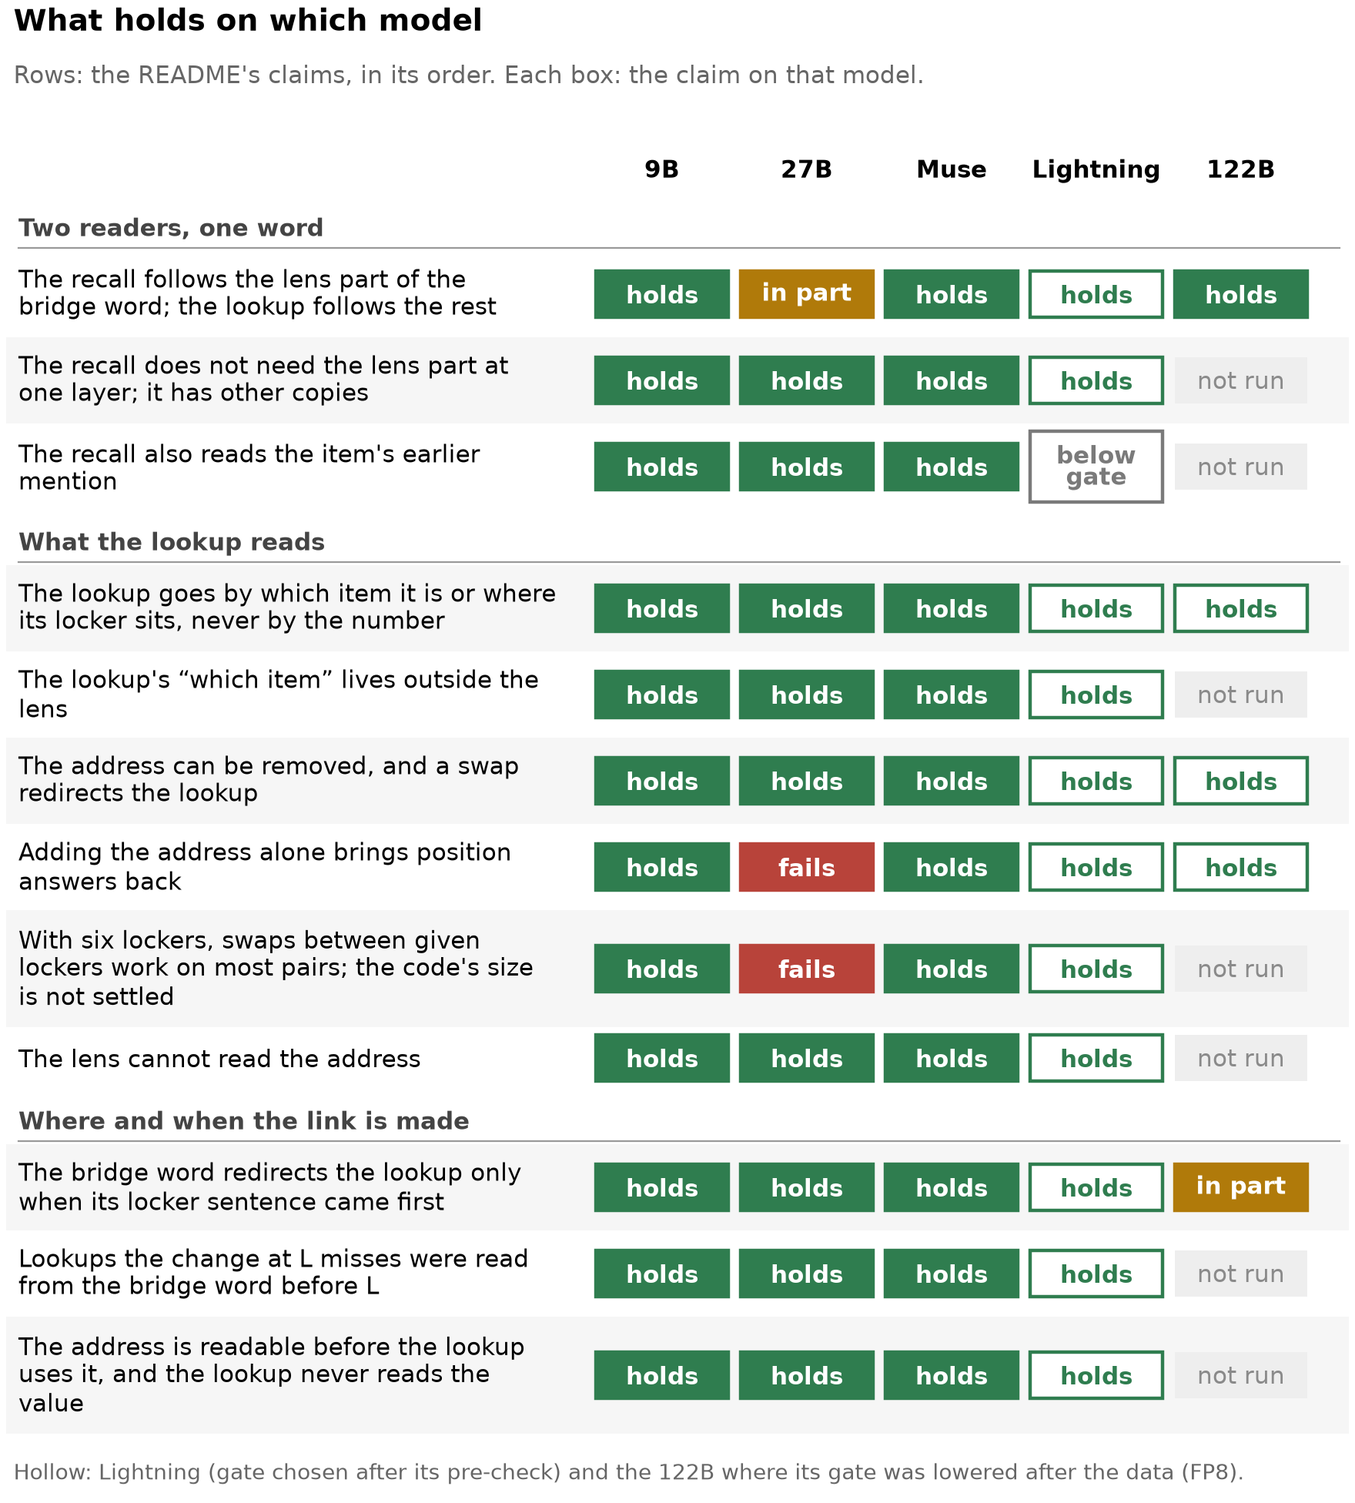
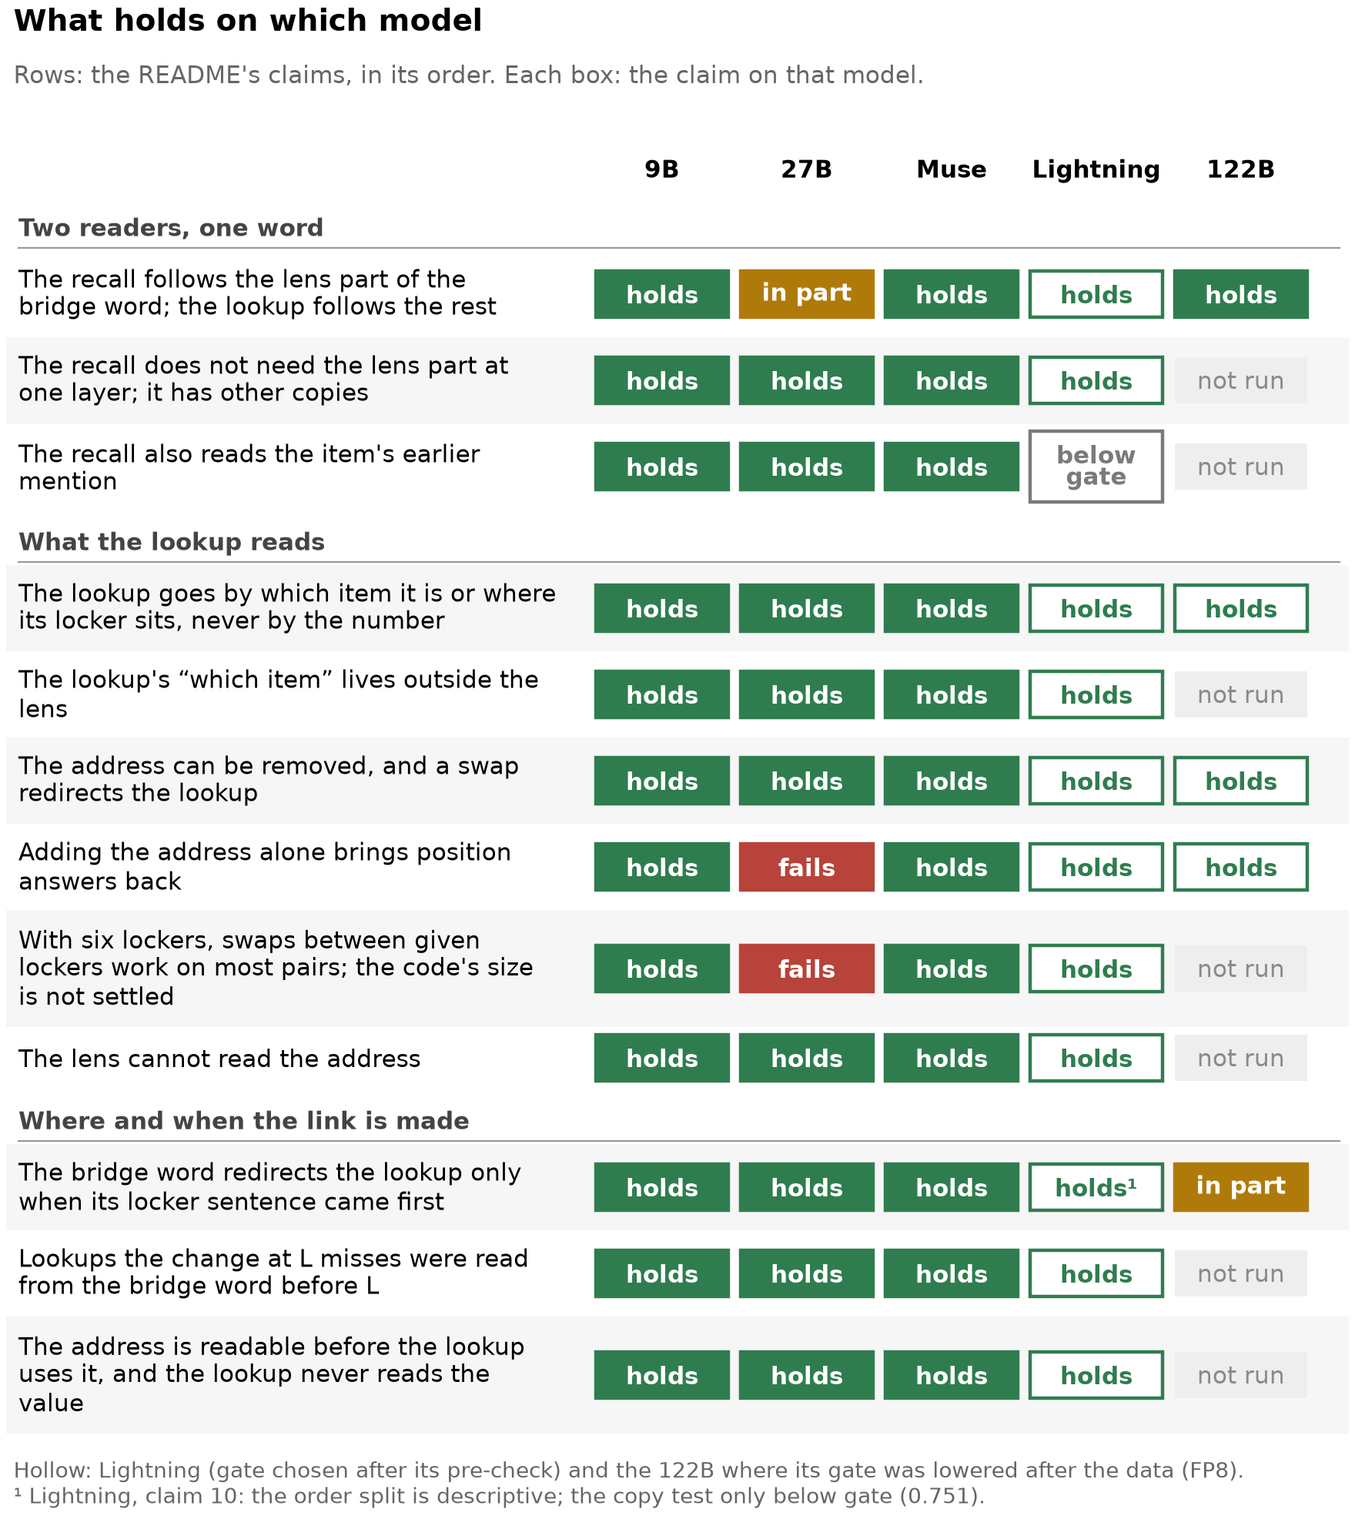
Dan 18:10 decisions 1-3 (UNVERIFIED; no number changes): 53.8 ledger card 'not high' (cos^2 with U <= 0.0455) and Dan's wording; rank check card with the range per model (conflict test, five models; routes' highest condition Lightning 0.14) in the ledger and the depth README; fig11 Lightning claim 1

diff --git a/scripts/readme_story_figures.py b/scripts/readme_story_figures.py
@@ -3235,6 +3235,9 @@ CLAIM_CELLS = {
     11: claim_cells("holds", "holds", "holds", "holds", "not run"),
     12: claim_cells("holds", "holds", "holds", "holds", "not run"),
 }
+# cell footnotes, {(claim, model): (mark, note)}; Lightning's claim 10: Dan 18:10 (jobs/c3/batch53.yaml decisions_1810 item 3)
+F11_NOTES = {(10, "lightning"): ("¹", "Lightning, claim 10: the order split is descriptive; the copy test only below "
+                                      "gate (0.751).")}  # fmt: skip
 # Dan's three groups (28 Oct 21:20), over the claims' numbers
 CLAIM_GROUPS = (("Two readers, one word", (1, 2, 3)), ("What the lookup reads", (4, 5, 6, 7, 8, 9)),
                 ("Where and when the link is made", (10, 11, 12)))  # fmt: skip
@@ -3371,8 +3374,8 @@ def draw_scorecard(plt, table: dict[str, str]) -> None:
             layout.append(("claim", "\n".join(lines), y, y + height, n))
             y += height
     caption = ("Hollow: Lightning (gate chosen after its pre-check) and the 122B where its gate was lowered after the "
-               "data (FP8).")  # fmt: skip
-    top_in, heads_in, bottom_in = 0.95, 0.32, 0.45
+               "data (FP8).\n" + " ".join(f"{mark} {note}" for mark, note in F11_NOTES.values()))  # fmt: skip
+    top_in, heads_in, bottom_in = 0.95, 0.32, 0.62
     h = top_in + heads_in + y + bottom_in
     fig = plt.figure(figsize=(S.WIDTH, h))
     S.title(fig, "What holds on which model",
@@ -3399,6 +3402,8 @@ def draw_scorecard(plt, table: dict[str, str]) -> None:
             word, flag = CLAIM_CELLS[n][m]
             label = cell_label(word)
             col, bh = CLAIM_WORD[word], F11_BOX_H[len(label.splitlines())]
+            if (n, m) in F11_NOTES:
+                label += F11_NOTES[(n, m)][0]
             if word == "not run":
                 box, ink, weight = {"fc": "#eeeeee", "ec": "none"}, col, "normal"
             elif flag == "hollow":
@@ -4263,14 +4268,23 @@ def checks_numbers() -> None:
     text = RANK_CHECK.read_text()
     S.record("cards", "", "checks: the rank check's flags", int(re.search(r"\*\*Flags: (\d+)\*\*", text).group(1)),
              source=rel(RANK_CHECK))  # fmt: skip
-    names = {"Qwen3.5-9B": "qwen3.5-9b", "Qwen3.6-27B": "qwen3.6-27b"}
+    names = {"Qwen3.5-9B": "qwen3.5-9b", "Qwen3.6-27B": "qwen3.6-27b", "Muse Glimmer 30B": "muse-glimmer-30b",
+             "Nemotron 3.5 Lightning": "nemotron-3.5-lightning", "Qwen3.5-122B": "qwen3.5-122b-a10b"}  # fmt: skip
+    routes_rest: dict[str, float] = {}
     for line in text.splitlines():
         cells = [x.strip() for x in line.strip().strip("|").split("|")]
-        if len(cells) < 9 or cells[0] not in names or cells[1:4] != ["main_swap", "all", "S's bridge (word or symbol)"]:
+        if len(cells) < 9 or cells[0] not in names or cells[3] != "S's bridge (word or symbol)":
+            continue
+        if cells[1] == "routes" and cells[2] != "all":  # Dan 18:10 item 2: the range includes the routes conditions
+            routes_rest[names[cells[0]]] = max(routes_rest.get(names[cells[0]], 0.0), float(cells[6]))
+        if cells[1:3] != ["main_swap", "all"]:
             continue
         for v, part in zip(cells[5:8], ("the J++ part", "the rest", "a random part"), strict=True):
             S.record("cards", names[cells[0]], f"rank check, conflict test: the new bridge word in the lens's top 50, {part}",
                      float(v), n=int(cells[4]), source=rel(RANK_CHECK))  # fmt: skip
+    for m, v in routes_rest.items():
+        S.record("cards", m, "rank check, routes test: the new bridge word in the lens's top 50, the rest, highest condition",
+                 v, source=rel(RANK_CHECK))  # fmt: skip
 
 
 CARD_MODELS = tuple(m for m in S.MODELS if m[1] != "122b")  # 9B, 27B, Muse

diff --git a/docs/depth/README.md b/docs/depth/README.md
@@ -15,7 +15,7 @@
 ![What holds on which model](../../figures/story/fig11_scorecard.png)
 *Each claim of the claims table, per model: the word is the verdict of the test behind it. Hollow: Lightning (gate chosen after its pre-check) and the 122B where its gate was lowered after the data (FP8). Grey: not run.*
 
-**Status.** Five models: Qwen3.5-9B, Qwen3.6-27B, Muse Glimmer 30B (another family), Nemotron 3.5 Lightning 30B-A3B (a third family, a Mamba-attention hybrid) and Qwen3.5-122B-A10B (FP8; MoE, ~10B active) where it ran; 29 Oct 2026. Unverified until hand-checked; today's results are marked "pending hand-check". Built at 52978a0e from the run files. Lightning ran on the rules already fixed for the other models, with no prediction of its own; its marks are hollow ○ everywhere: its gate was chosen after the 60-scene pre-check was seen. The 122B's caveats: FP8, its J++ lens fit on the bf16 weights; its layer, L33<!-- src: docs/x0_numbers.json | layer_122b -->, set by another rule (the 27B's relative depth carried over: 0.69<!-- src: figures/story/data.csv | L as a relative depth (L / the number of layers) -->); its gates lowered to 0.75 after the data for the routes, address and swap tests (hollow ○); its numbers carry ~±0.04<!-- src: figures/story/data.csv | 53.1: run-to-run noise beyond the bootstrap (Dan's estimate) --> run-to-run noise beyond the bootstrap. Its lookup losing nothing beyond random means the 27B's weakness is not a total-size trend; active parameters are not separated; its recall effect is the smallest of the five (0.32<!-- src: docs/x0_numbers.json | rc_excess_122b -->) and mixed on varied scenes (0.15<!-- src: docs/x0_numbers.json | x0b_c_122b -->), which we cannot separate from its later layer or FP8. Nemotron 3.5 Bolt is out of scope: no J++ lens exists for it.
+**Status.** Five models: Qwen3.5-9B, Qwen3.6-27B, Muse Glimmer 30B (another family), Nemotron 3.5 Lightning 30B-A3B (a third family, a Mamba-attention hybrid) and Qwen3.5-122B-A10B (FP8; MoE, ~10B active) where it ran; 29 Oct 2026. Unverified until hand-checked; today's results are marked "pending hand-check". Built at 5a94b5ef from the run files. Lightning ran on the rules already fixed for the other models, with no prediction of its own; its marks are hollow ○ everywhere: its gate was chosen after the 60-scene pre-check was seen. The 122B's caveats: FP8, its J++ lens fit on the bf16 weights; its layer, L33<!-- src: docs/x0_numbers.json | layer_122b -->, set by another rule (the 27B's relative depth carried over: 0.69<!-- src: figures/story/data.csv | L as a relative depth (L / the number of layers) -->); its gates lowered to 0.75 after the data for the routes, address and swap tests (hollow ○); its numbers carry ~±0.04<!-- src: figures/story/data.csv | 53.1: run-to-run noise beyond the bootstrap (Dan's estimate) --> run-to-run noise beyond the bootstrap. Its lookup losing nothing beyond random means the 27B's weakness is not a total-size trend; active parameters are not separated; its recall effect is the smallest of the five (0.32<!-- src: docs/x0_numbers.json | rc_excess_122b -->) and mixed on varied scenes (0.15<!-- src: docs/x0_numbers.json | x0b_c_122b -->), which we cannot separate from its later layer or FP8. Nemotron 3.5 Bolt is out of scope: no J++ lens exists for it.
 
 ## The question and the setup
 
@@ -200,7 +200,7 @@ Both readers: The country of Eli Thornton's childhood is on which continent?   E
   | recall: answer word outside the lens's top 50 at the bridge word | 0.56 [0.47, 0.66]<!-- src: figures/story/data.csv \| main test, recall: items whose answer word ranks below the lens's top 50 at the bridge word --> | 0.79 [0.72, 0.86]<!-- src: figures/story/data.csv \| main test, recall: items whose answer word ranks below the lens's top 50 at the bridge word --> | 0.99 [0.98, 1.00]<!-- src: figures/story/data.csv \| main test, recall: items whose answer word ranks below the lens's top 50 at the bridge word --> | 0.95 [0.90, 0.99]<!-- src: figures/story/data.csv \| main test, recall: items whose answer word ranks below the lens's top 50 at the bridge word --> | 1.00 [1.00, 1.00]<!-- src: figures/story/data.csv \| main test, recall: items whose answer word ranks below the lens's top 50 at the bridge word --> |
   | the specificity rule | the item<!-- src: figures/story/data.csv \| main test, recall: the rule's label (page words) --> | the item<!-- src: figures/story/data.csv \| main test, recall: the rule's label (page words) --> | the answer word is not read<!-- src: figures/story/data.csv \| main test, recall: the rule's label (page words) --> | the answer word is not read<!-- src: figures/story/data.csv \| main test, recall: the rule's label (page words) --> | the answer word is not read<!-- src: figures/story/data.csv \| main test, recall: the rule's label (page words) --> |
 
-  Rank check (automatic, every item of the conflict test on the 9B and 27B; flags: 0<!-- src: figures/story/data.csv | checks: the rank check's flags -->), in Dan's words: what the lens can read about the item sits in the J++ part; the rest reads nothing (0.00<!-- src: figures/story/data.csv | rank check, conflict test: the new bridge word in the lens's top 50, the rest -->-0.02<!-- src: figures/story/data.csv | rank check, conflict test: the new bridge word in the lens's top 50, the rest -->); the random part reads the bridge because it keeps part of Δ (the change) itself (0.52<!-- src: figures/story/data.csv | rank check, conflict test: the new bridge word in the lens's top 50, a random part --> / 0.53<!-- src: figures/story/data.csv | rank check, conflict test: the new bridge word in the lens's top 50, a random part --> of items with the new bridge word in the lens's top 50; the J++ part: 0.81<!-- src: figures/story/data.csv | rank check, conflict test: the new bridge word in the lens's top 50, the J++ part --> / 0.81<!-- src: figures/story/data.csv | rank check, conflict test: the new bridge word in the lens's top 50, the J++ part -->).
+  Rank check (automatic, every item of the conflict test and the routes test on all five models; flags: 0<!-- src: figures/story/data.csv | checks: the rank check's flags -->), in Dan's words: what the lens can read about the item sits in the J++ part; the rest puts the new bridge word in the lens's top 50 on 0.00-0.14 of items (conflict test, 9B / 27B / Muse / Lightning / 122B: 0.00<!-- src: figures/story/data.csv | rank check, conflict test: the new bridge word in the lens's top 50, the rest --> / 0.02<!-- src: figures/story/data.csv | rank check, conflict test: the new bridge word in the lens's top 50, the rest --> / 0.01<!-- src: figures/story/data.csv | rank check, conflict test: the new bridge word in the lens's top 50, the rest --> / 0.06<!-- src: figures/story/data.csv | rank check, conflict test: the new bridge word in the lens's top 50, the rest --> / 0.05<!-- src: figures/story/data.csv | rank check, conflict test: the new bridge word in the lens's top 50, the rest -->; the routes test's highest condition, Lightning: 0.14<!-- src: figures/story/data.csv | rank check, routes test: the new bridge word in the lens's top 50, the rest, highest condition -->), against about 0.5 for a random part (0.52<!-- src: figures/story/data.csv | rank check, conflict test: the new bridge word in the lens's top 50, a random part --> / 0.53<!-- src: figures/story/data.csv | rank check, conflict test: the new bridge word in the lens's top 50, a random part --> / 0.66<!-- src: figures/story/data.csv | rank check, conflict test: the new bridge word in the lens's top 50, a random part --> / 0.65<!-- src: figures/story/data.csv | rank check, conflict test: the new bridge word in the lens's top 50, a random part --> / 0.83<!-- src: figures/story/data.csv | rank check, conflict test: the new bridge word in the lens's top 50, a random part -->) and about 0.8 for the J++ part (0.81<!-- src: figures/story/data.csv | rank check, conflict test: the new bridge word in the lens's top 50, the J++ part --> / 0.81<!-- src: figures/story/data.csv | rank check, conflict test: the new bridge word in the lens's top 50, the J++ part --> / 0.89<!-- src: figures/story/data.csv | rank check, conflict test: the new bridge word in the lens's top 50, the J++ part --> / 0.93<!-- src: figures/story/data.csv | rank check, conflict test: the new bridge word in the lens's top 50, the J++ part --> / 0.93<!-- src: figures/story/data.csv | rank check, conflict test: the new bridge word in the lens's top 50, the J++ part -->); the random part reads the bridge because it keeps part of Δ (the change) itself.
 - **Read.**
   - The recall follows the part of the bridge word the lens reads; the lookup follows the rest, fully on the 9B, Muse, Lightning and the 122B, mostly on the 27B.
   - What the recall follows is the item, not its answer: keeping the answer's lens directions keeps almost all of the recall's loss.

diff --git a/docs/README.template.md b/docs/README.template.md
@@ -200,7 +200,7 @@ Both readers: The country of Eli Thornton's childhood is on which continent?   E
   | recall: answer word outside the lens's top 50 at the bridge word | {{d|conflict_answer|9b|main test, recall: items whose answer word ranks below the lens's top 50 at the bridge word}} | {{d|conflict_answer|27b|main test, recall: items whose answer word ranks below the lens's top 50 at the bridge word}} | {{d|conflict_answer|muse|main test, recall: items whose answer word ranks below the lens's top 50 at the bridge word}} | {{d|conflict_answer|nemotron-3.5-lightning|main test, recall: items whose answer word ranks below the lens's top 50 at the bridge word}} | {{d|conflict_answer|122b|main test, recall: items whose answer word ranks below the lens's top 50 at the bridge word}} |
   | the specificity rule | {{dp|conflict_answer|9b|main test, recall: the rule's label (page words)}} | {{dp|conflict_answer|27b|main test, recall: the rule's label (page words)}} | {{dp|conflict_answer|muse|main test, recall: the rule's label (page words)}} | {{dp|conflict_answer|nemotron-3.5-lightning|main test, recall: the rule's label (page words)}} | {{dp|conflict_answer|122b|main test, recall: the rule's label (page words)}} |
 
-  Rank check (automatic, every item of the conflict test on the 9B and 27B; flags: {{dp|cards||checks: the rank check's flags}}), in Dan's words: what the lens can read about the item sits in the J++ part; the rest reads nothing ({{dp|cards|9b|rank check, conflict test: the new bridge word in the lens's top 50, the rest}}-{{dp|cards|27b|rank check, conflict test: the new bridge word in the lens's top 50, the rest}}); the random part reads the bridge because it keeps part of Δ (the change) itself ({{dp|cards|9b|rank check, conflict test: the new bridge word in the lens's top 50, a random part}} / {{dp|cards|27b|rank check, conflict test: the new bridge word in the lens's top 50, a random part}} of items with the new bridge word in the lens's top 50; the J++ part: {{dp|cards|9b|rank check, conflict test: the new bridge word in the lens's top 50, the J++ part}} / {{dp|cards|27b|rank check, conflict test: the new bridge word in the lens's top 50, the J++ part}}).
+  Rank check (automatic, every item of the conflict test and the routes test on all five models; flags: {{dp|cards||checks: the rank check's flags}}), in Dan's words: what the lens can read about the item sits in the J++ part; the rest puts the new bridge word in the lens's top 50 on 0.00-0.14 of items (conflict test, 9B / 27B / Muse / Lightning / 122B: {{dp|cards|9b|rank check, conflict test: the new bridge word in the lens's top 50, the rest}} / {{dp|cards|27b|rank check, conflict test: the new bridge word in the lens's top 50, the rest}} / {{dp|cards|muse|rank check, conflict test: the new bridge word in the lens's top 50, the rest}} / {{dp|cards|nemotron-3.5-lightning|rank check, conflict test: the new bridge word in the lens's top 50, the rest}} / {{dp|cards|122b|rank check, conflict test: the new bridge word in the lens's top 50, the rest}}; the routes test's highest condition, Lightning: {{dp|cards|nemotron-3.5-lightning|rank check, routes test: the new bridge word in the lens's top 50, the rest, highest condition}}), against about 0.5 for a random part ({{dp|cards|9b|rank check, conflict test: the new bridge word in the lens's top 50, a random part}} / {{dp|cards|27b|rank check, conflict test: the new bridge word in the lens's top 50, a random part}} / {{dp|cards|muse|rank check, conflict test: the new bridge word in the lens's top 50, a random part}} / {{dp|cards|nemotron-3.5-lightning|rank check, conflict test: the new bridge word in the lens's top 50, a random part}} / {{dp|cards|122b|rank check, conflict test: the new bridge word in the lens's top 50, a random part}}) and about 0.8 for the J++ part ({{dp|cards|9b|rank check, conflict test: the new bridge word in the lens's top 50, the J++ part}} / {{dp|cards|27b|rank check, conflict test: the new bridge word in the lens's top 50, the J++ part}} / {{dp|cards|muse|rank check, conflict test: the new bridge word in the lens's top 50, the J++ part}} / {{dp|cards|nemotron-3.5-lightning|rank check, conflict test: the new bridge word in the lens's top 50, the J++ part}} / {{dp|cards|122b|rank check, conflict test: the new bridge word in the lens's top 50, the J++ part}}); the random part reads the bridge because it keeps part of Δ (the change) itself.
 - **Read.**
   - The recall follows the part of the bridge word the lens reads; the lookup follows the rest, fully on the 9B, Muse, Lightning and the 122B, mostly on the 27B.
   - What the recall follows is the item, not its answer: keeping the answer's lens directions keeps almost all of the recall's loss.

diff --git a/docs/depth/EXPERIMENTS.md b/docs/depth/EXPERIMENTS.md
@@ -59,7 +59,7 @@ New in this ledger:
   On the clean one-pick scenes Lightning misses the gate (recall 0.751<!-- src: results/x0_necessity/nem35l_x52_fresh/coverage.txt | (recall 0.751 :: 0.751 --> < 0.80), so it is not tested there; the below-gate run on the eligible scenes (295 at L14; the source of Lightning's below-gate runs) is descriptive only, hollow ○: recall ○ 0.39 [0.33, 0.45]<!-- src: results/x0_necessity/nem35l_x52_fresh/verdict-20261029T083122Z/verdict.md | PM | 295 :: 0.39 [0.33, 0.45] -->, lookup ○ 0.03 [-0.02, 0.08]<!-- src: results/x0_necessity/nem35l_x52_fresh/verdict-20261029T083122Z/verdict.md | PP | 295 :: 0.03 [-0.02, 0.08] --> lost beyond a random part, the pattern the rule calls confirmed.
 
 - **Read.**
-  - The rank check (Dan 13:15; the 9B and the 27B, every item of the conflict test, docs/verify_pack_jspace.md; no flag): what the lens can read about the item sits in the J++ part; the rest reads nothing (0.00<!-- src: docs/verify_pack_jspace.md \| Qwen3.5-9B :: S's bridge (word or symbol) :: 0.00 -->-0.02<!-- src: docs/verify_pack_jspace.md \| Qwen3.6-27B :: S's bridge (word or symbol) :: 0.02 -->); the random part reads the bridge because it keeps part of Δ itself.
+  - The rank check (Dan 13:15, range per model Dan 18:10; every item of the conflict test and the routes test, docs/verify_pack_jspace.md; no flag): what the lens can read about the item sits in the J++ part; the rest puts the new bridge word in the lens's top 50 on 0.00-0.14 of items (conflict test: 9B 0.00<!-- src: docs/verify_pack_jspace.md \| Qwen3.5-9B :: S's bridge (word or symbol) :: 0.00 -->, 27B 0.02<!-- src: docs/verify_pack_jspace.md \| Qwen3.6-27B :: S's bridge (word or symbol) :: 0.02 -->, Muse 0.01, Lightning 0.06, 122B 0.05; the routes test's highest condition, Lightning C0: 0.14), against about 0.5 for a random part (0.52 / 0.53 / 0.66 / 0.65 / 0.83) and about 0.8 for the J++ part (0.81 / 0.81 / 0.89 / 0.93 / 0.93); the random part reads the bridge because it keeps part of Δ itself.
   - On the 122B, at its L33, the lookup loses nothing beyond random and the recall loses about a third: confirmed; with more lens directions (k = 50, 100) the lookup still loses nothing beyond random.
   - At L14 the recall follows the lens part and the lookup does not; the same split stands at L18 and L22.
 - **Caveats.**
@@ -669,7 +669,8 @@ New in this ledger:
 - **Read.**
   - The pre-specified vectors: no on the 9B and the 27B (about as many lookups to X's locker as a random vector); in between on Muse, where X's vector beats random but Y's version comes close.
   - The slot vectors are nearly parallel on both models: a shared component dominates them. Centered, the slot-specific part sends lookups to X's locker: in between on the 9B and the 27B, a shared identity code by the same thresholds on Muse.
-  - The centered slot vectors lie in the address U above a random vector's 99th percentile on every slot of the three models, but at most a few percent of their energy.
+  - The centered slot vectors lie in the address U above a random vector's 99th percentile on every slot of the three models, but at most a few percent of their energy (cos² at most 0.0455 on Muse): "not high" (Dan 18:10, decisions_1810 item 1).
+  - In Dan's words (18:10): the centered arm moves lookups in between (X 0.25, Y 0.12, random 0.02; the 9B's cells) and its vector lies mostly outside the address U, consistent with [51.3](#t51-3) (the lookup's code mostly outside U); the uncentered pre-specified arm says no.
 - **Caveats.**
   - The centered arm was added by Dan (12:10) before any run; the headline is the uncentered arm.
   - On Muse a random vector alone sends 0.18 [0.16, 0.20]<!-- src: results/x53_bindid/x53_bindid-20261029T122650Z/verdict.md \| 600 (300 scenes, 32 items) :: 0.06 [0.03, 0.08] :: 0.18 [0.16, 0.20] --> of lookups to X's locker at 2x.
